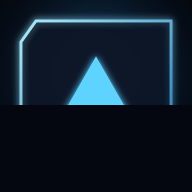
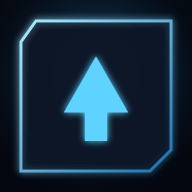
Preparar la instalación como PWA en iPhone y Android
- Icono de 180x180 en PNG para apple-touch-icon: iOS ignora los SVG y usaba
  una captura de la página como icono de la pantalla de inicio.
- Icono maskable propio, con el dibujo dentro de la zona segura, para que
  Android no recorte el marco al aplicar su máscara circular.
- Metadatos de iOS: nombre en la pantalla de inicio, modo standalone y
  estilo de la barra de estado; favicon PNG de respaldo.
- Manifest completo: id, display_override, idioma, categorías y los iconos
  nuevos junto a theme_color y background_color.
- Márgenes con env(safe-area-inset-*) para la muesca y la barra inferior,
  sin resaltado al tocar ni zoom por doble toque.
- vercel.json con el tipo MIME del manifest y sin caché para el worker.
- pruebas/pwa.mjs: 25 comprobaciones de manifest, iconos, metadatos de iOS,
  service worker y ausencia de scroll horizontal a 320, 390 y 430 px.

Claude-Session: https://claude.ai/code/session_01K64pAcoc9Rtq1bNnLKhNan

Changed region(s): [[0.0625, 0.5312, 0.9375, 0.9375], [0.2812, 0.5312, 0.7188, 0.7812]]

diff --git a/css/estilos.css b/css/estilos.css
@@ -39,6 +39,11 @@ body {
   letter-spacing: 0.02em;
   -webkit-text-size-adjust: 100%;
   overflow-x: hidden;
+  /* Comportamiento de app instalada: sin resaltado azul al tocar,
+     sin zoom por doble toque y sin rebote de recarga al arrastrar. */
+  -webkit-tap-highlight-color: transparent;
+  touch-action: manipulation;
+  overscroll-behavior-y: contain;
 }
 
 /* Rejilla de fondo, puramente decorativa */
@@ -59,7 +64,11 @@ body {
   z-index: 1;
   max-width: 960px;
   margin: 0 auto;
-  padding: 18px 14px calc(36px + env(safe-area-inset-bottom));
+  /* env(safe-area-*) deja libre la muesca y la barra inferior del iPhone
+     cuando la app se abre a pantalla completa desde la pantalla de inicio. */
+  padding:
+    calc(18px + env(safe-area-inset-top)) calc(14px + env(safe-area-inset-right))
+    calc(36px + env(safe-area-inset-bottom)) calc(14px + env(safe-area-inset-left));
 }
 
 h1, h2, h3 { margin: 0; font-weight: 600; letter-spacing: 0.09em; }
@@ -271,6 +280,8 @@ p { margin: 0; }
 
 .boton {
   font: inherit;
+  -webkit-user-select: none;
+  user-select: none;
   font-size: 0.74rem;
   letter-spacing: 0.12em;
   padding: 11px 14px;
@@ -406,7 +417,7 @@ p { margin: 0; }
 /* ------------------------------ responsive ------------------------------ */
 
 @media (min-width: 760px) {
-  .marco { padding-top: 28px; }
+  .marco { padding-top: calc(28px + env(safe-area-inset-top)); }
   .misiones { grid-template-columns: repeat(2, 1fr); }
   .stats { grid-template-columns: repeat(2, 1fr); }
   .historial { grid-template-columns: repeat(15, 1fr); }

diff --git a/index.html b/index.html
@@ -6,10 +6,19 @@
 <title>El Sistema — Misiones Diarias</title>
 <meta name="description" content="Registro diario de misiones con progresión de jugador: experiencia, niveles, rangos y estadísticas.">
 <meta name="theme-color" content="#04070f">
+<meta name="color-scheme" content="dark">
 <link rel="manifest" href="manifest.webmanifest">
+
+<!-- Iconos: el SVG para el navegador, los PNG para la pantalla de inicio.
+     iOS solo acepta PNG en apple-touch-icon; con un SVG usaría una captura de la web. -->
 <link rel="icon" href="iconos/icono.svg" type="image/svg+xml">
-<link rel="apple-touch-icon" href="iconos/icono.svg">
+<link rel="icon" href="iconos/favicon-32.png" sizes="32x32" type="image/png">
+<link rel="apple-touch-icon" sizes="180x180" href="iconos/icono-180.png">
+
+<!-- Instalación en la pantalla de inicio -->
+<meta name="mobile-web-app-capable" content="yes">
 <meta name="apple-mobile-web-app-capable" content="yes">
+<meta name="apple-mobile-web-app-title" content="El Sistema">
 <meta name="apple-mobile-web-app-status-bar-style" content="black-translucent">
 <link rel="stylesheet" href="css/estilos.css">
 </head>

diff --git a/sw.js b/sw.js
@@ -1,7 +1,7 @@
 /* Service worker: guarda la app en caché para que funcione sin conexión.
    Sube CACHE al cambiar cualquier archivo para forzar la actualización. */
 
-const CACHE = 'sistema-v1';
+const CACHE = 'sistema-v2';
 
 const ARCHIVOS = [
   './',
@@ -13,8 +13,12 @@ const ARCHIVOS = [
   './js/ui.js',
   './manifest.webmanifest',
   './iconos/icono.svg',
+  './iconos/icono-app.svg',
+  './iconos/favicon-32.png',
+  './iconos/icono-180.png',
   './iconos/icono-192.png',
   './iconos/icono-512.png',
+  './iconos/icono-maskable-512.png',
 ];
 
 self.addEventListener('install', (evento) => {

diff --git a/README.md b/README.md
@@ -33,14 +33,52 @@ python3 -m http.server 8000
 # abre http://localhost:8000
 ```
 
-**En el móvil (recomendado, para el uso diario):** publícala en GitHub Pages y añádela a
-la pantalla de inicio.
+**En el móvil (recomendado, para el uso diario):** publícala en Vercel o en GitHub Pages y
+añádela a la pantalla de inicio. Con Vercel el repositorio puede seguir siendo privado.
+
+### Publicar en Vercel
+
+1. Entra en [vercel.com](https://vercel.com) con tu cuenta de GitHub.
+2. **Add New… → Project**, elige `POLOS-DRAUSSE` e **Import**.
+3. No hay nada que configurar: es un sitio estático, sin framework ni build. Pulsa **Deploy**.
+4. Cada `git push` a la rama de producción vuelve a desplegar la app automáticamente.
+
+### Publicar en GitHub Pages (requiere repositorio público en cuentas gratuitas)
 
 1. En GitHub: **Settings → Pages → Source: Deploy from a branch**, elige la rama y la
    carpeta `/ (root)`, y guarda.
-2. Abre la URL que aparece (`https://<usuario>.github.io/<repo>/`) en el móvil.
-3. Menú del navegador → **Añadir a la pantalla de inicio**. Se abrirá a pantalla completa,
-   con su icono, y seguirá funcionando sin cobertura.
+2. Abre la URL que aparece (`https://<usuario>.github.io/<repo>/`).
+
+## Instalarla en el móvil
+
+La app es una PWA: se instala desde el navegador, sin tiendas de aplicaciones.
+
+**iPhone y iPad (obligatorio Safari; Chrome en iOS no puede instalar apps).**
+
+1. Abre la URL en **Safari**.
+2. Toca el botón **Compartir** (el cuadrado con la flecha hacia arriba, abajo en el centro).
+3. Baja en la lista y toca **Añadir a pantalla de inicio**.
+4. Verás el nombre *El Sistema* y su icono. Toca **Añadir**.
+
+**Android (Chrome, Edge, Samsung Internet…).**
+
+1. Abre la URL en Chrome.
+2. Aparecerá una barra **"Instalar aplicación"**; si no sale, abre el menú **⋮** y elige
+   **Instalar aplicación** o **Añadir a pantalla de inicio**.
+3. Confirma con **Instalar**.
+
+En ambos casos queda en la pantalla de inicio con su icono, se abre a pantalla completa
+(sin barra de direcciones) y funciona sin conexión.
+
+### Comprobar que funciona como PWA
+
+- Ábrela desde el icono: **no debe verse la barra de direcciones del navegador**.
+- Activa el modo avión y ábrela: tiene que cargar igual (service worker).
+- En Chrome de escritorio: **F12 → Application → Manifest** (nombre, iconos, colores y
+  `display: standalone`) y **Application → Service Workers** (debe decir *activated and
+  running*). En la barra de direcciones aparece el icono de instalar.
+- Automático, contra la URL publicada:
+  `BASE=https://tu-app.vercel.app/ node pruebas/pwa.mjs`
 
 ## Tus datos
 
@@ -59,8 +97,11 @@ js/sistema.js           Reglas del juego (XP, niveles, rangos, racha, penalizaci
 js/ui.js                Pintado del DOM y ventanas de notificación
 js/app.js               Arranque, eventos y temporizadores
 sw.js                   Service worker: caché para el modo sin conexión
-manifest.webmanifest    Metadatos para instalarla como app
+manifest.webmanifest    Metadatos para instalarla como app (nombre, iconos, colores)
+vercel.json             Cabeceras del despliegue (tipo del manifest, caché del worker)
+iconos/                 Icono en SVG y los PNG de la pantalla de inicio
 pruebas/e2e.mjs         Prueba automática del ciclo completo (opcional)
+pruebas/pwa.mjs         Prueba automática de los requisitos de PWA (opcional)
 ```
 
 Para pasar la prueba automática, con el servidor local en marcha:
